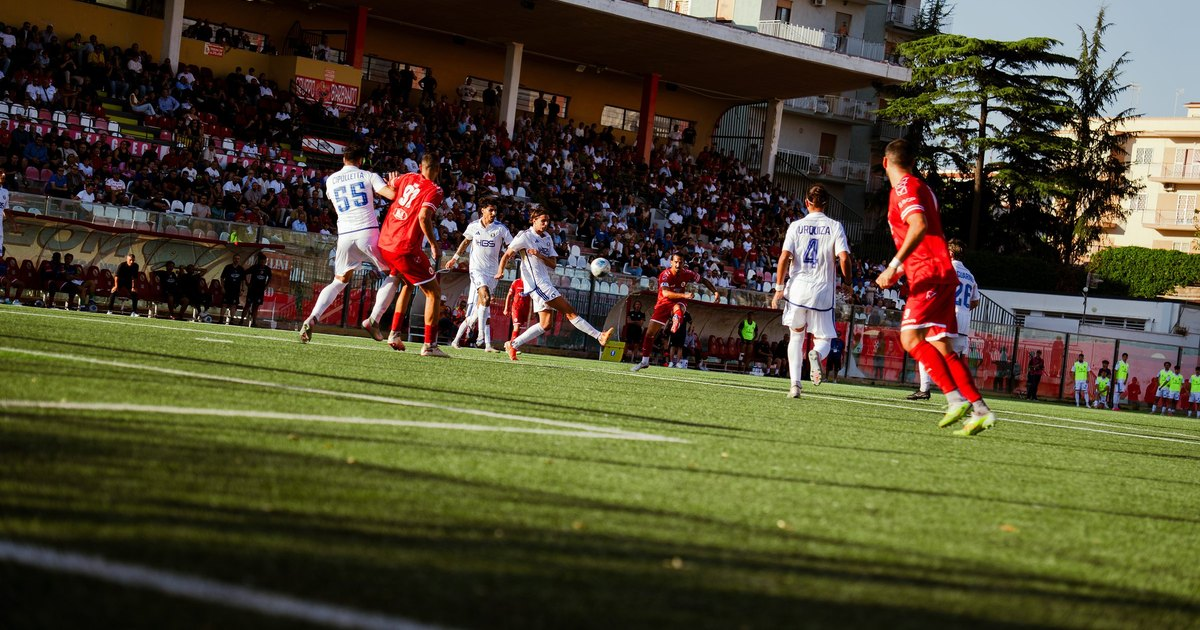
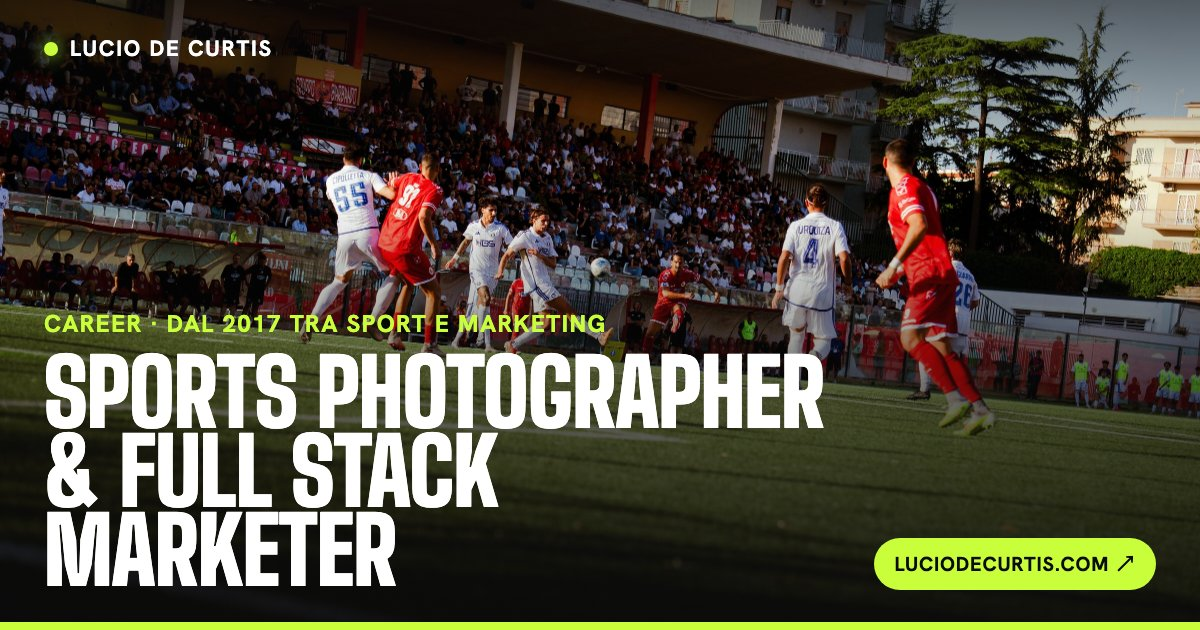
Anteprime link brandizzate e testi di condivisione

diff --git a/index.html b/index.html
@@ -3,16 +3,18 @@
 <head>
 <meta charset="utf-8">
 <meta name="viewport" content="width=device-width, initial-scale=1">
-<title>Lucio De Curtis</title>
-<meta name="description" content="Portfolio di fotografia sportiva di Lucio De Curtis: calcio Serie D, padel e matchday storytelling.">
-<meta property="og:title" content="Lucio De Curtis">
-<meta property="og:description" content="Portfolio di fotografia sportiva di Lucio De Curtis: calcio Serie D, padel e matchday storytelling.">
-<meta property="og:image" content="https://luciodecurtis.com/assets/og/home.jpg">
+<title>Lucio De Curtis — Sports Photographer & Full Stack Marketer</title>
+<meta name="description" content="Fotografia sportiva per club, atleti e brand (Serie D, padel, eventi) e marketing digitale: strategia, web, automazioni, AI e contenuti.">
+<meta property="og:title" content="Lucio De Curtis — Sports Photographer & Full Stack Marketer">
+<meta property="og:description" content="Fotografia sportiva per club, atleti e brand (Serie D, padel, eventi) e marketing digitale: strategia, web, automazioni, AI e contenuti.">
+<meta property="og:image" content="https://luciodecurtis.com/assets/og/home.jpg?v=df8451f3">
 <link rel="canonical" href="https://luciodecurtis.com/">
 <meta property="og:url" content="https://luciodecurtis.com/">
 <meta property="og:image:width" content="1200">
 <meta property="og:image:height" content="630">
 <meta property="og:type" content="website">
+<meta property="og:site_name" content="Lucio De Curtis">
+<meta property="og:locale" content="it_IT">
 <meta name="twitter:card" content="summary_large_image">
 <meta name="theme-color" content="#0b0b0b">
 <link rel="icon" href="assets/logos/favicon.svg" type="image/svg+xml">

diff --git a/career.html b/career.html
@@ -4,15 +4,17 @@
 <meta charset="utf-8">
 <meta name="viewport" content="width=device-width, initial-scale=1">
 <title>Career — Lucio De Curtis</title>
-<meta name="description" content="Chi sono: fotografo sportivo con un background in marketing e comunicazione.">
+<meta name="description" content="Dal 2017 tra marketing, comunicazione e sport: il percorso di Lucio De Curtis, Sports Photographer &amp; Full Stack Marketer.">
 <meta property="og:title" content="Career — Lucio De Curtis">
-<meta property="og:description" content="Chi sono: fotografo sportivo con un background in marketing e comunicazione.">
-<meta property="og:image" content="https://luciodecurtis.com/assets/og/career.jpg">
+<meta property="og:description" content="Dal 2017 tra marketing, comunicazione e sport: il percorso di Lucio De Curtis, Sports Photographer &amp; Full Stack Marketer.">
+<meta property="og:image" content="https://luciodecurtis.com/assets/og/career.jpg?v=6adf3036">
 <link rel="canonical" href="https://luciodecurtis.com/career.html">
 <meta property="og:url" content="https://luciodecurtis.com/career.html">
 <meta property="og:image:width" content="1200">
 <meta property="og:image:height" content="630">
 <meta property="og:type" content="website">
+<meta property="og:site_name" content="Lucio De Curtis">
+<meta property="og:locale" content="it_IT">
 <meta name="twitter:card" content="summary_large_image">
 <meta name="theme-color" content="#0b0b0b">
 <link rel="icon" href="assets/logos/favicon.svg" type="image/svg+xml">

diff --git a/contact.html b/contact.html
@@ -4,15 +4,17 @@
 <meta charset="utf-8">
 <meta name="viewport" content="width=device-width, initial-scale=1">
 <title>Contact — Lucio De Curtis</title>
-<meta name="description" content="Contatti: e-mail e Instagram.">
+<meta name="description" content="Club, atleti e brand: raccontiamo insieme la prossima partita. Scrivimi via e-mail o su Instagram.">
 <meta property="og:title" content="Contact — Lucio De Curtis">
-<meta property="og:description" content="Contatti: e-mail e Instagram.">
-<meta property="og:image" content="https://luciodecurtis.com/assets/og/contact.jpg">
+<meta property="og:description" content="Club, atleti e brand: raccontiamo insieme la prossima partita. Scrivimi via e-mail o su Instagram.">
+<meta property="og:image" content="https://luciodecurtis.com/assets/og/contact.jpg?v=5edc9595">
 <link rel="canonical" href="https://luciodecurtis.com/contact.html">
 <meta property="og:url" content="https://luciodecurtis.com/contact.html">
 <meta property="og:image:width" content="1200">
 <meta property="og:image:height" content="630">
 <meta property="og:type" content="website">
+<meta property="og:site_name" content="Lucio De Curtis">
+<meta property="og:locale" content="it_IT">
 <meta name="twitter:card" content="summary_large_image">
 <meta name="theme-color" content="#0b0b0b">
 <link rel="icon" href="assets/logos/favicon.svg" type="image/svg+xml">

diff --git a/work.html b/work.html
@@ -4,15 +4,17 @@
 <meta charset="utf-8">
 <meta name="viewport" content="width=device-width, initial-scale=1">
 <title>Work — Lucio De Curtis</title>
-<meta name="description" content="Progetti di fotografia sportiva: calcio e padel.">
+<meta name="description" content="Matchday di Serie D, tornei di padel e live: i progetti fotografici di Lucio De Curtis.">
 <meta property="og:title" content="Work — Lucio De Curtis">
-<meta property="og:description" content="Progetti di fotografia sportiva: calcio e padel.">
-<meta property="og:image" content="https://luciodecurtis.com/assets/og/work.jpg">
+<meta property="og:description" content="Matchday di Serie D, tornei di padel e live: i progetti fotografici di Lucio De Curtis.">
+<meta property="og:image" content="https://luciodecurtis.com/assets/og/work.jpg?v=94805df3">
 <link rel="canonical" href="https://luciodecurtis.com/work.html">
 <meta property="og:url" content="https://luciodecurtis.com/work.html">
 <meta property="og:image:width" content="1200">
 <meta property="og:image:height" content="630">
 <meta property="og:type" content="website">
+<meta property="og:site_name" content="Lucio De Curtis">
+<meta property="og:locale" content="it_IT">
 <meta name="twitter:card" content="summary_large_image">
 <meta name="theme-color" content="#0b0b0b">
 <link rel="icon" href="assets/logos/favicon.svg" type="image/svg+xml">

diff --git a/project-turris-fidelis-andria.html b/project-turris-fidelis-andria.html
@@ -7,12 +7,14 @@
 <meta name="description" content="Dallo spogliatoio al fischio finale: il racconto completo di un matchday, un momento alla volta.">
 <meta property="og:title" content="Turris vs Fidelis Andria — Lucio De Curtis">
 <meta property="og:description" content="Dallo spogliatoio al fischio finale: il racconto completo di un matchday, un momento alla volta.">
-<meta property="og:image" content="https://luciodecurtis.com/assets/og/turris-fidelis-andria.jpg">
+<meta property="og:image" content="https://luciodecurtis.com/assets/og/turris-fidelis-andria.jpg?v=d95cf4da">
 <link rel="canonical" href="https://luciodecurtis.com/project-turris-fidelis-andria.html">
 <meta property="og:url" content="https://luciodecurtis.com/project-turris-fidelis-andria.html">
 <meta property="og:image:width" content="1200">
 <meta property="og:image:height" content="630">
 <meta property="og:type" content="website">
+<meta property="og:site_name" content="Lucio De Curtis">
+<meta property="og:locale" content="it_IT">
 <meta name="twitter:card" content="summary_large_image">
 <meta name="theme-color" content="#0b0b0b">
 <link rel="icon" href="assets/logos/favicon.svg" type="image/svg+xml">

diff --git a/project-turris-gravina.html b/project-turris-gravina.html
@@ -7,12 +7,14 @@
 <meta name="description" content="Una partita di Serie D raccontata da bordo campo, dalla luce piena del pomeriggio fino al tramonto sul Liguori.">
 <meta property="og:title" content="Turris vs Gravina — Lucio De Curtis">
 <meta property="og:description" content="Una partita di Serie D raccontata da bordo campo, dalla luce piena del pomeriggio fino al tramonto sul Liguori.">
-<meta property="og:image" content="https://luciodecurtis.com/assets/og/turris-gravina.jpg">
+<meta property="og:image" content="https://luciodecurtis.com/assets/og/turris-gravina.jpg?v=b2594472">
 <link rel="canonical" href="https://luciodecurtis.com/project-turris-gravina.html">
 <meta property="og:url" content="https://luciodecurtis.com/project-turris-gravina.html">
 <meta property="og:image:width" content="1200">
 <meta property="og:image:height" content="630">
 <meta property="og:type" content="website">
+<meta property="og:site_name" content="Lucio De Curtis">
+<meta property="og:locale" content="it_IT">
 <meta name="twitter:card" content="summary_large_image">
 <meta name="theme-color" content="#0b0b0b">
 <link rel="icon" href="assets/logos/favicon.svg" type="image/svg+xml">

diff --git a/project-npt-master.html b/project-npt-master.html
@@ -7,12 +7,14 @@
 <meta name="description" content="Rendere Napoli Padel Tour un brand riconoscibile, che fa del digital e della comunicazione online un punto di forza.">
 <meta property="og:title" content="NPT Master — Lucio De Curtis">
 <meta property="og:description" content="Rendere Napoli Padel Tour un brand riconoscibile, che fa del digital e della comunicazione online un punto di forza.">
-<meta property="og:image" content="https://luciodecurtis.com/assets/og/npt-master.jpg">
+<meta property="og:image" content="https://luciodecurtis.com/assets/og/npt-master.jpg?v=9c3abe5c">
 <link rel="canonical" href="https://luciodecurtis.com/project-npt-master.html">
 <meta property="og:url" content="https://luciodecurtis.com/project-npt-master.html">
 <meta property="og:image:width" content="1200">
 <meta property="og:image:height" content="630">
 <meta property="og:type" content="website">
+<meta property="og:site_name" content="Lucio De Curtis">
+<meta property="og:locale" content="it_IT">
 <meta name="twitter:card" content="summary_large_image">
 <meta name="theme-color" content="#0b0b0b">
 <link rel="icon" href="assets/logos/favicon.svg" type="image/svg+xml">

diff --git a/project-bruno-mars-milano.html b/project-bruno-mars-milano.html
@@ -7,12 +7,14 @@
 <meta name="description" content="Qui abbiamo messo alla prova il mio iPhone 17 Pro.">
 <meta property="og:title" content="Bruno Mars — Milano — Lucio De Curtis">
 <meta property="og:description" content="Qui abbiamo messo alla prova il mio iPhone 17 Pro.">
-<meta property="og:image" content="https://luciodecurtis.com/assets/og/bruno-mars-milano.jpg">
+<meta property="og:image" content="https://luciodecurtis.com/assets/og/bruno-mars-milano.jpg?v=636e0e9a">
 <link rel="canonical" href="https://luciodecurtis.com/project-bruno-mars-milano.html">
 <meta property="og:url" content="https://luciodecurtis.com/project-bruno-mars-milano.html">
 <meta property="og:image:width" content="1200">
 <meta property="og:image:height" content="630">
 <meta property="og:type" content="website">
+<meta property="og:site_name" content="Lucio De Curtis">
+<meta property="og:locale" content="it_IT">
 <meta name="twitter:card" content="summary_large_image">
 <meta name="theme-color" content="#0b0b0b">
 <link rel="icon" href="assets/logos/favicon.svg" type="image/svg+xml">

diff --git a/404.html b/404.html
@@ -13,6 +13,8 @@
 <meta property="og:image:width" content="1200">
 <meta property="og:image:height" content="630">
 <meta property="og:type" content="website">
+<meta property="og:site_name" content="Lucio De Curtis">
+<meta property="og:locale" content="it_IT">
 <meta name="twitter:card" content="summary_large_image">
 <meta name="theme-color" content="#0b0b0b">
 <link rel="icon" href="assets/logos/favicon.svg" type="image/svg+xml">
